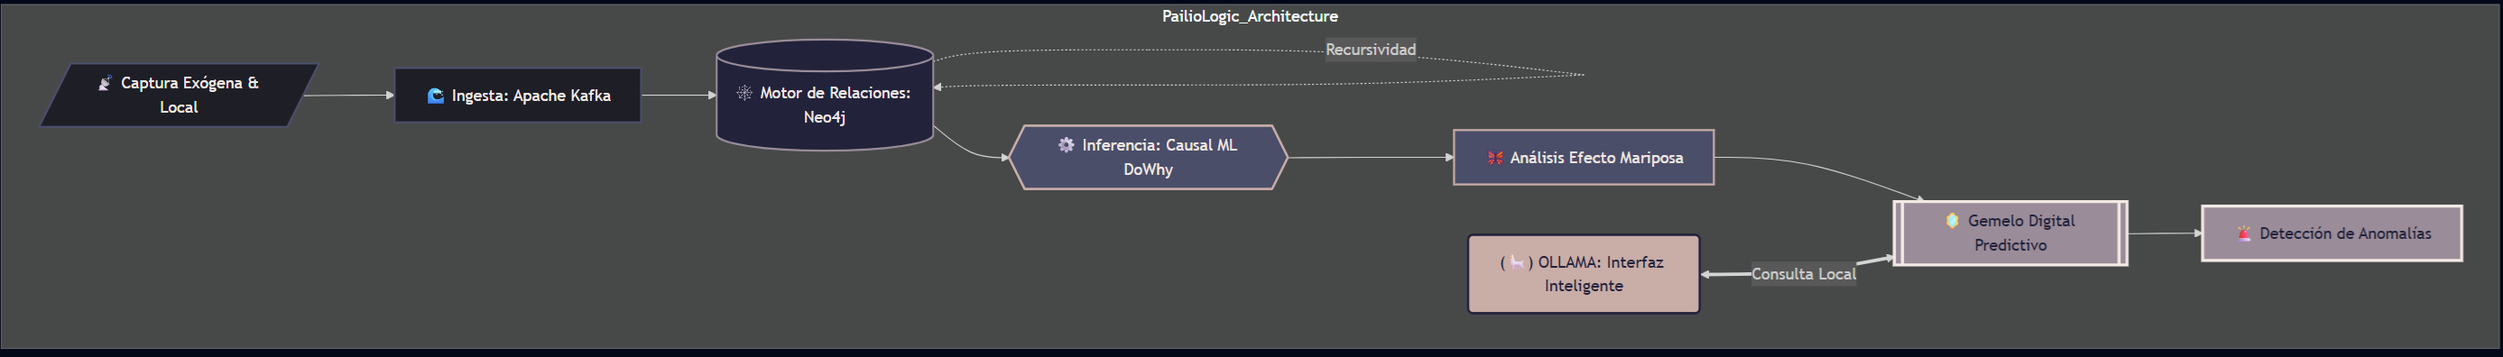
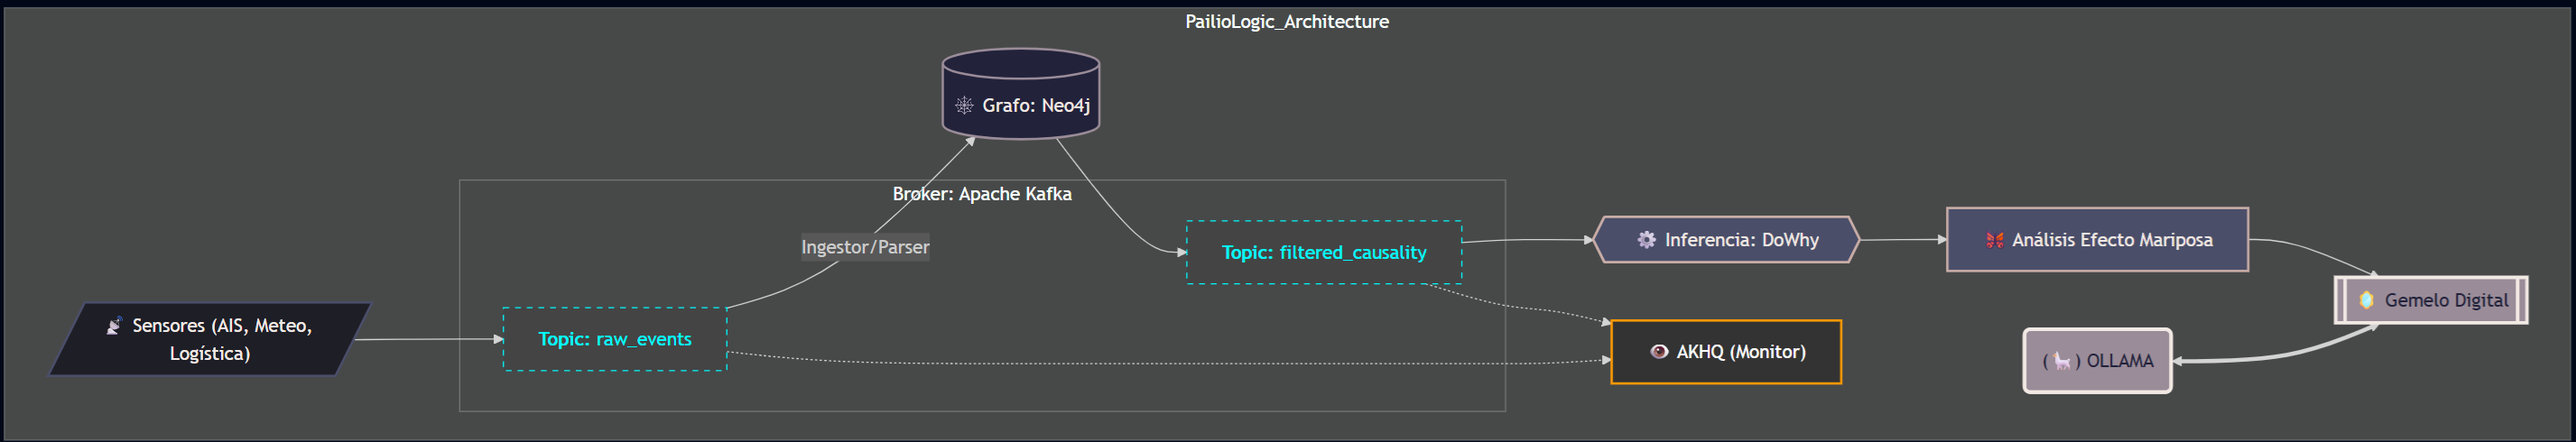
Actualizar arquitectura

diff --git a/app/interfaz.py b/app/interfaz.py
@@ -1,0 +1,33 @@
+# src/interfaz.py
+import requests
+import os
+from dotenv import load_dotenv
+
+load_dotenv()
+
+class PailioInterface:
+    def __init__(self):
+        self.url = os.getenv("OLLAMA_BASE_URL")
+        self.model = os.getenv("OLLAMA_MODEL")
+        self.system_prompt = (
+            "Eres el motor PailioLogic. Solo hablas basándote en datos reales. "
+            "Si no tienes datos en el contexto para responder una pregunta, "
+            "di simplemente: 'No lo sé, no hay datos de causalidad registrados'."
+        )
+
+    def consultar(self, pregunta, contexto_del_grafo=""):
+        # Unimos el prompt del sistema, el contexto de Neo4j y la pregunta
+        prompt_completo = f"{self.system_prompt}\nContexto: {contexto_del_grafo}\nPregunta: {pregunta}"
+        
+        try:
+            response = requests.post(
+                f"{self.url}/api/generate",
+                json={
+                    "model": self.model,
+                    "prompt": prompt_completo,
+                    "stream": False
+                }
+            )
+            return response.json().get('response', "Error al conectar con Ollama.")
+        except Exception as e:
+            return f"Error de conexión: {str(e)}"

diff --git a/README.md b/README.md
@@ -1,18 +1,19 @@
-# PapilioLogic 🦋
+# PailioLogic 🦋
 
-**PapilioLogic** es un motor predictivo avanzado diseñado para identificar y mitigar el "Efecto Mariposa" en entornos marítimos. El sistema analiza cómo variables distantes y factores externos impactan en el flujo local de un puerto, detectando cuellos de botella antes de que se manifiesten físicamente. 
+**PailioLogic** es un motor predictivo avanzado diseñado para identificar y mitigar el "Efecto Mariposa" en entornos marítimos. El sistema analiza cómo variables distantes y factores externos impactan en el flujo local de un puerto, detectando cuellos de botella antes de que se manifiesten físicamente. 
 
-> **Nota:** Todo el sistema está diseñado para ejecutarse **100% localmente**, garantizando la privacidad y soberanía de los datos.
+> **Nota:** Todo el sistema está diseñado para ejecutarse **100% dentro de Docker y de forma local**, garantizando la privacidad, la soberanía de los datos y la portabilidad del entorno.
 
 ## 🏗 Arquitectura del Sistema
 
-La arquitectura de PapilioLogic se basa en la capacidad de conectar eventos globales con operaciones locales mediante un stack tecnológico de alto rendimiento y ejecución local.
+La arquitectura de PailioLogic se basa en la capacidad de conectar eventos globales con operaciones locales mediante un stack tecnológico de alto rendimiento y ejecución local orquestada por contenedores.
 
 ### Componentes Principales
 
 | Componente | Función | Tecnología |
 | :--- | :--- | :--- |
 | **Ingesta** | Captura y orquestación de flujos de datos masivos. | Apache Kafka |
+| **Observabilidad** | Monitorización y gestión de flujos de eventos en tiempo real. | **AKHQ** |
 | **Relaciones** | Modelado de la red de causalidad y dependencias. | Neo4j (Graph DB) |
 | **Inferencia** | Análisis de causalidad para distinguir causa de correlación. | Causal ML (`DoWhy`) |
 | **Interfaz Inteligente** | Procesamiento de lenguaje natural y razonamiento local. | **Ollama** |
@@ -22,17 +23,20 @@ La arquitectura de PapilioLogic se basa en la capacidad de conectar eventos glob
 
 ## 🔄 Interconexión de la Arquitectura
 
-1.  **Capa de Ingesta (Kafka):** Absorbe eventos constantes (clima, cambios geopolíticos).
-2.  **Capa de Relaciones (Neo4j):** Mapea entidades (`[Buque]`, `[Atracadero]`, `[Factor Externo]`) para visualizar la propagación del impacto.
-3.  **Capa de Inteligencia Causal (DoWhy):** Valida el impacto real de un factor externo sobre el puerto local.
-4.  **Capa de Razonamiento Local (Ollama):** Actúa como el intérprete del sistema. **Ollama** procesa los hallazgos del motor causal y el estado del grafo para generar informes, explicar las causas de un posible cuello de botella y permitir interactuar con el Gemelo Digital mediante lenguaje natural, sin depender de la nube.
-5.  **Capa de Simulación:** Proyección final en el Gemelo Digital para la toma de decisiones.
+1. **Capa de Ingesta (Kafka):** Absorbe eventos constantes (clima, cambios geopolíticos).
+2. **Capa de Observación (AKHQ):** Interfaz visual para monitorizar los *topics* de Kafka (`raw_events` y `filtered_causality`), permitiendo la depuración del flujo de datos.
+3. **Capa de Relaciones (Neo4j):** Mapea entidades (`[Buque]`, `[Atracadero]`, `[Factor Externo]`) para visualizar la propagación del impacto.
+4. **Capa de Inteligencia Causal (DoWhy):** Valida el impacto real de un factor externo sobre el puerto local mediante el análisis del "Efecto Mariposa".
+5. **Capa de Razonamiento Local (Ollama):** Actúa como el intérprete del sistema. **Ollama** procesa los hallazgos del motor causal y el estado del grafo para generar informes y permitir interactuar con el Gemelo Digital mediante lenguaje natural.
+6. **Capa de Simulación:** Proyección final en el Gemelo Digital para la toma de decisiones.
 
 ---
 
-## 🛠 Stack Técnico
+## 🛠 Stack Técnico & Despliegue
+* **Orquestación:** Docker & Docker Compose
 * **Lenguaje:** Python
-* **Ingesta:** Apache Kafka
+* **Ingesta:** Apache Kafka (Modo KRaft)
+* **Monitorización:** AKHQ
 * **Base de Datos de Grafos:** Neo4j
 * **Inferencia:** Microsoft `DoWhy`
 * **LLM Local:** Ollama (Llama 3 / Mistral)
